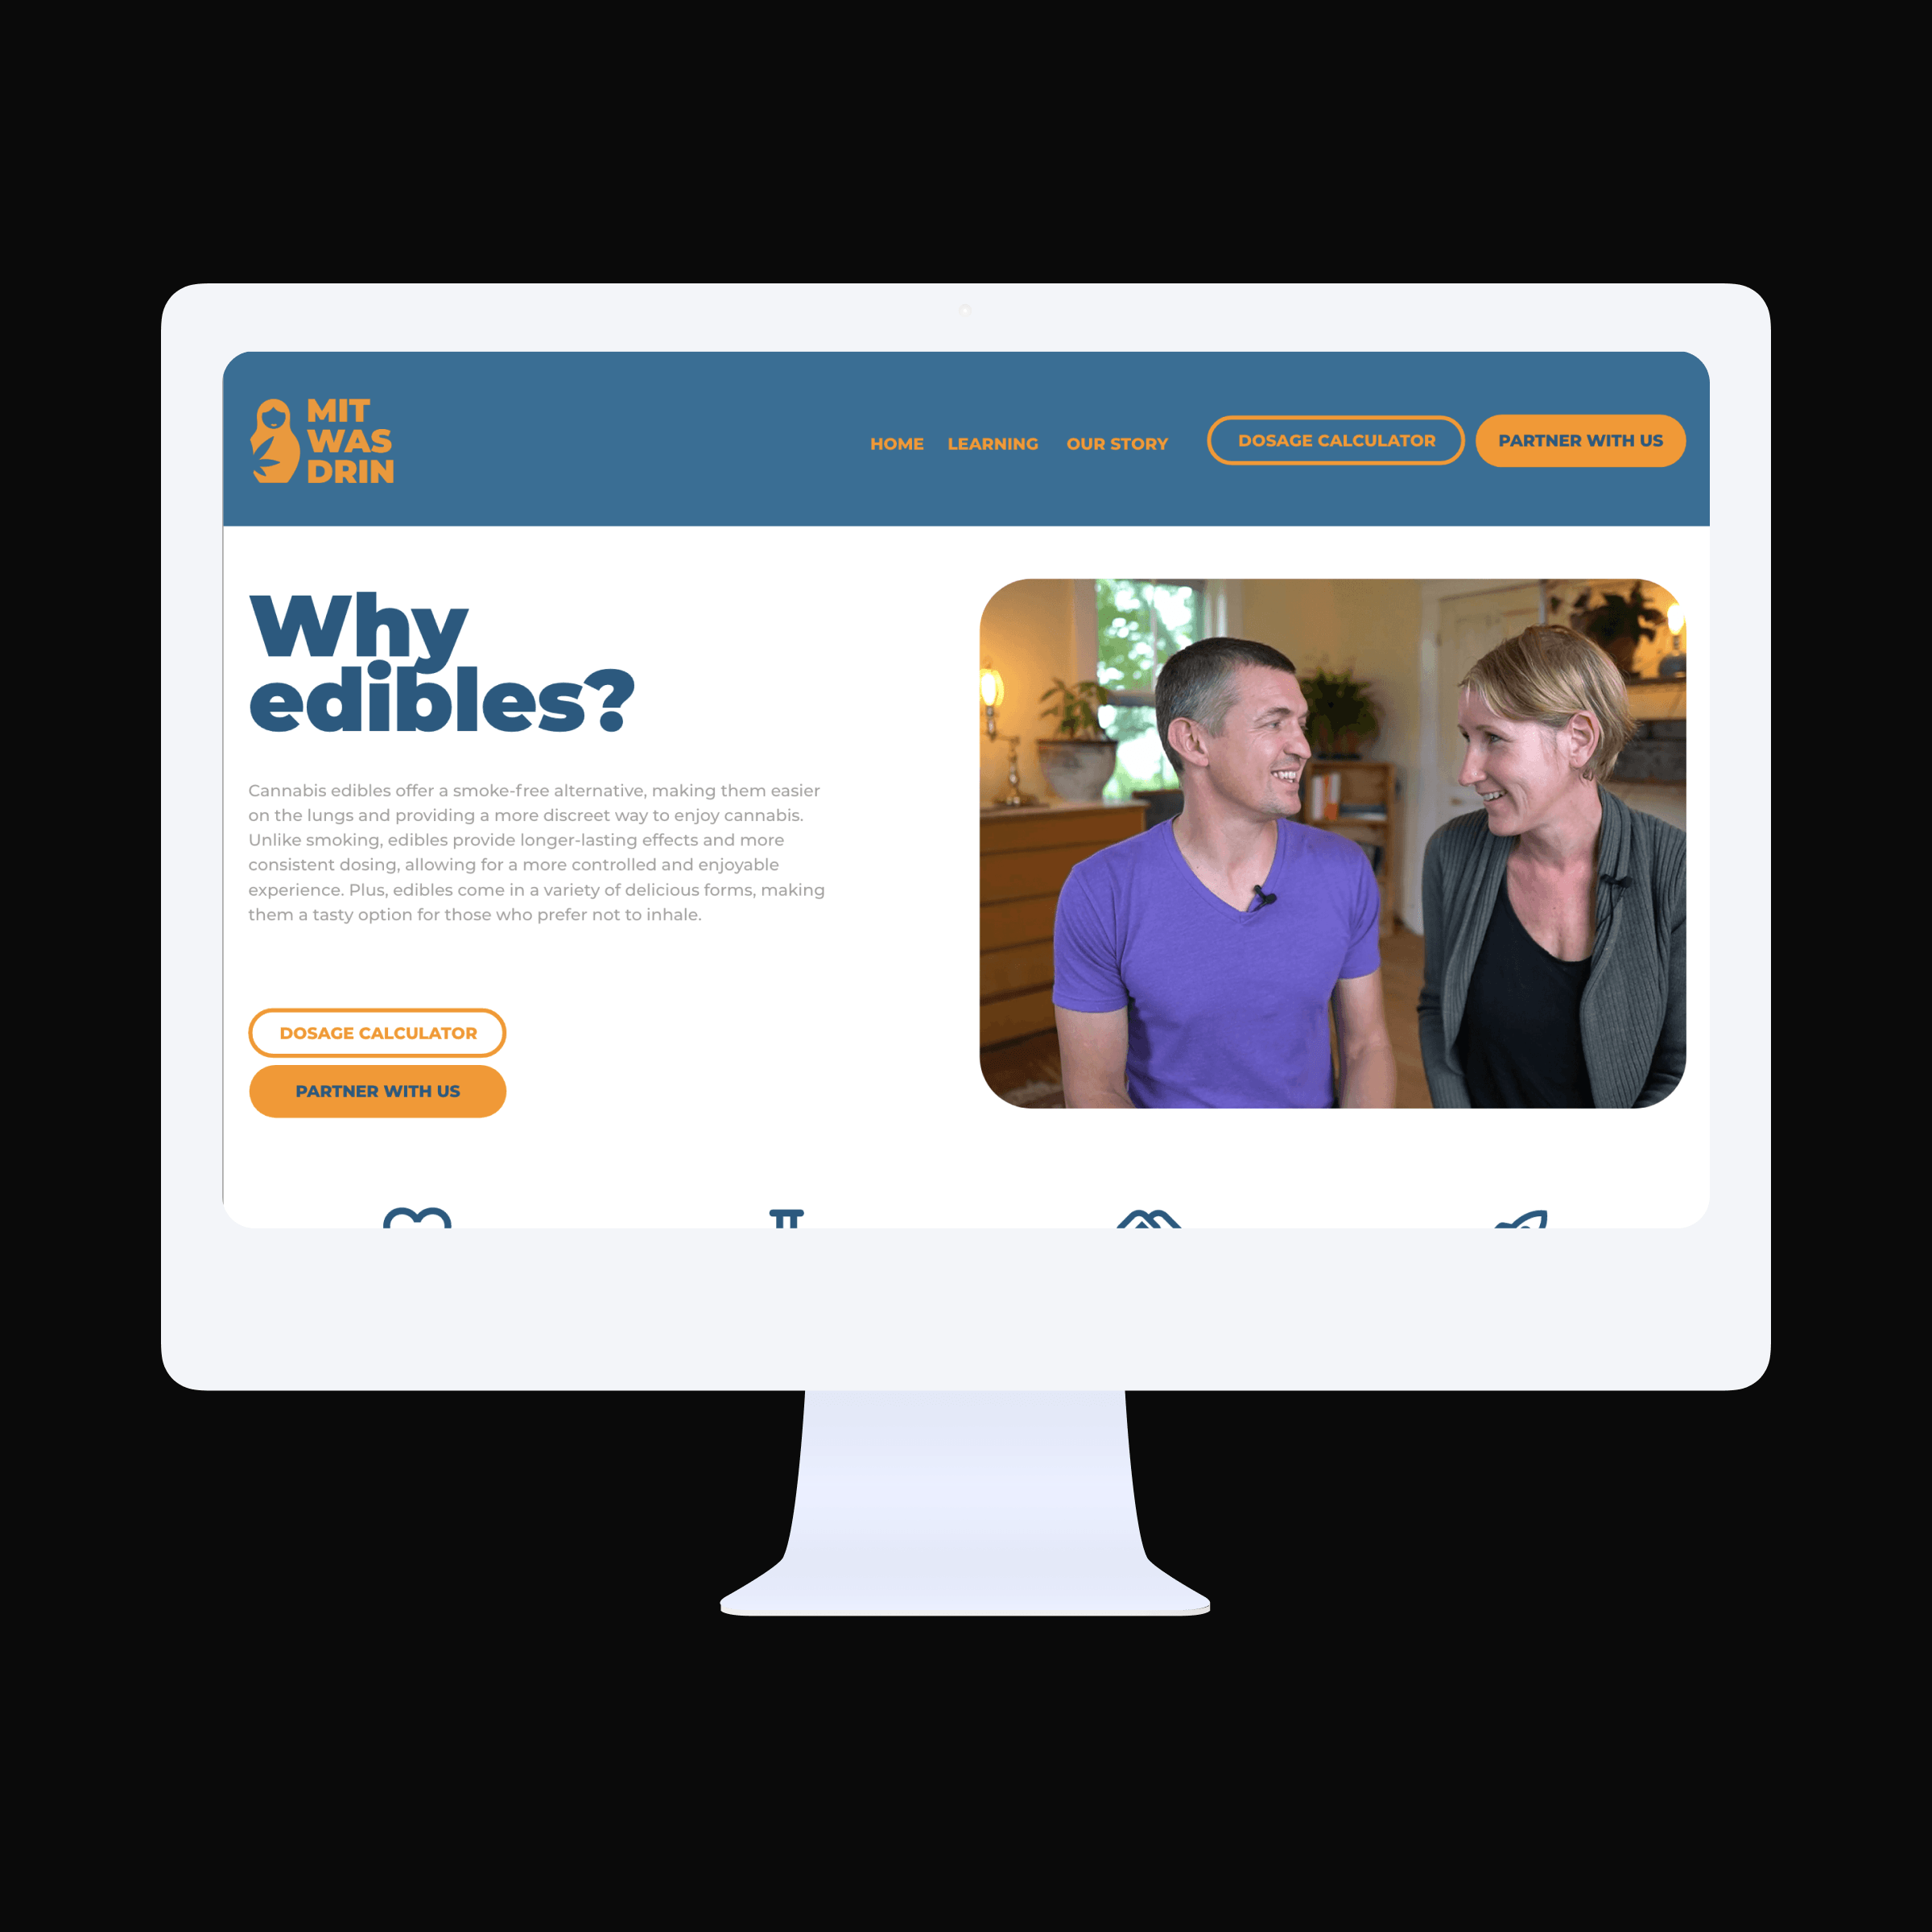
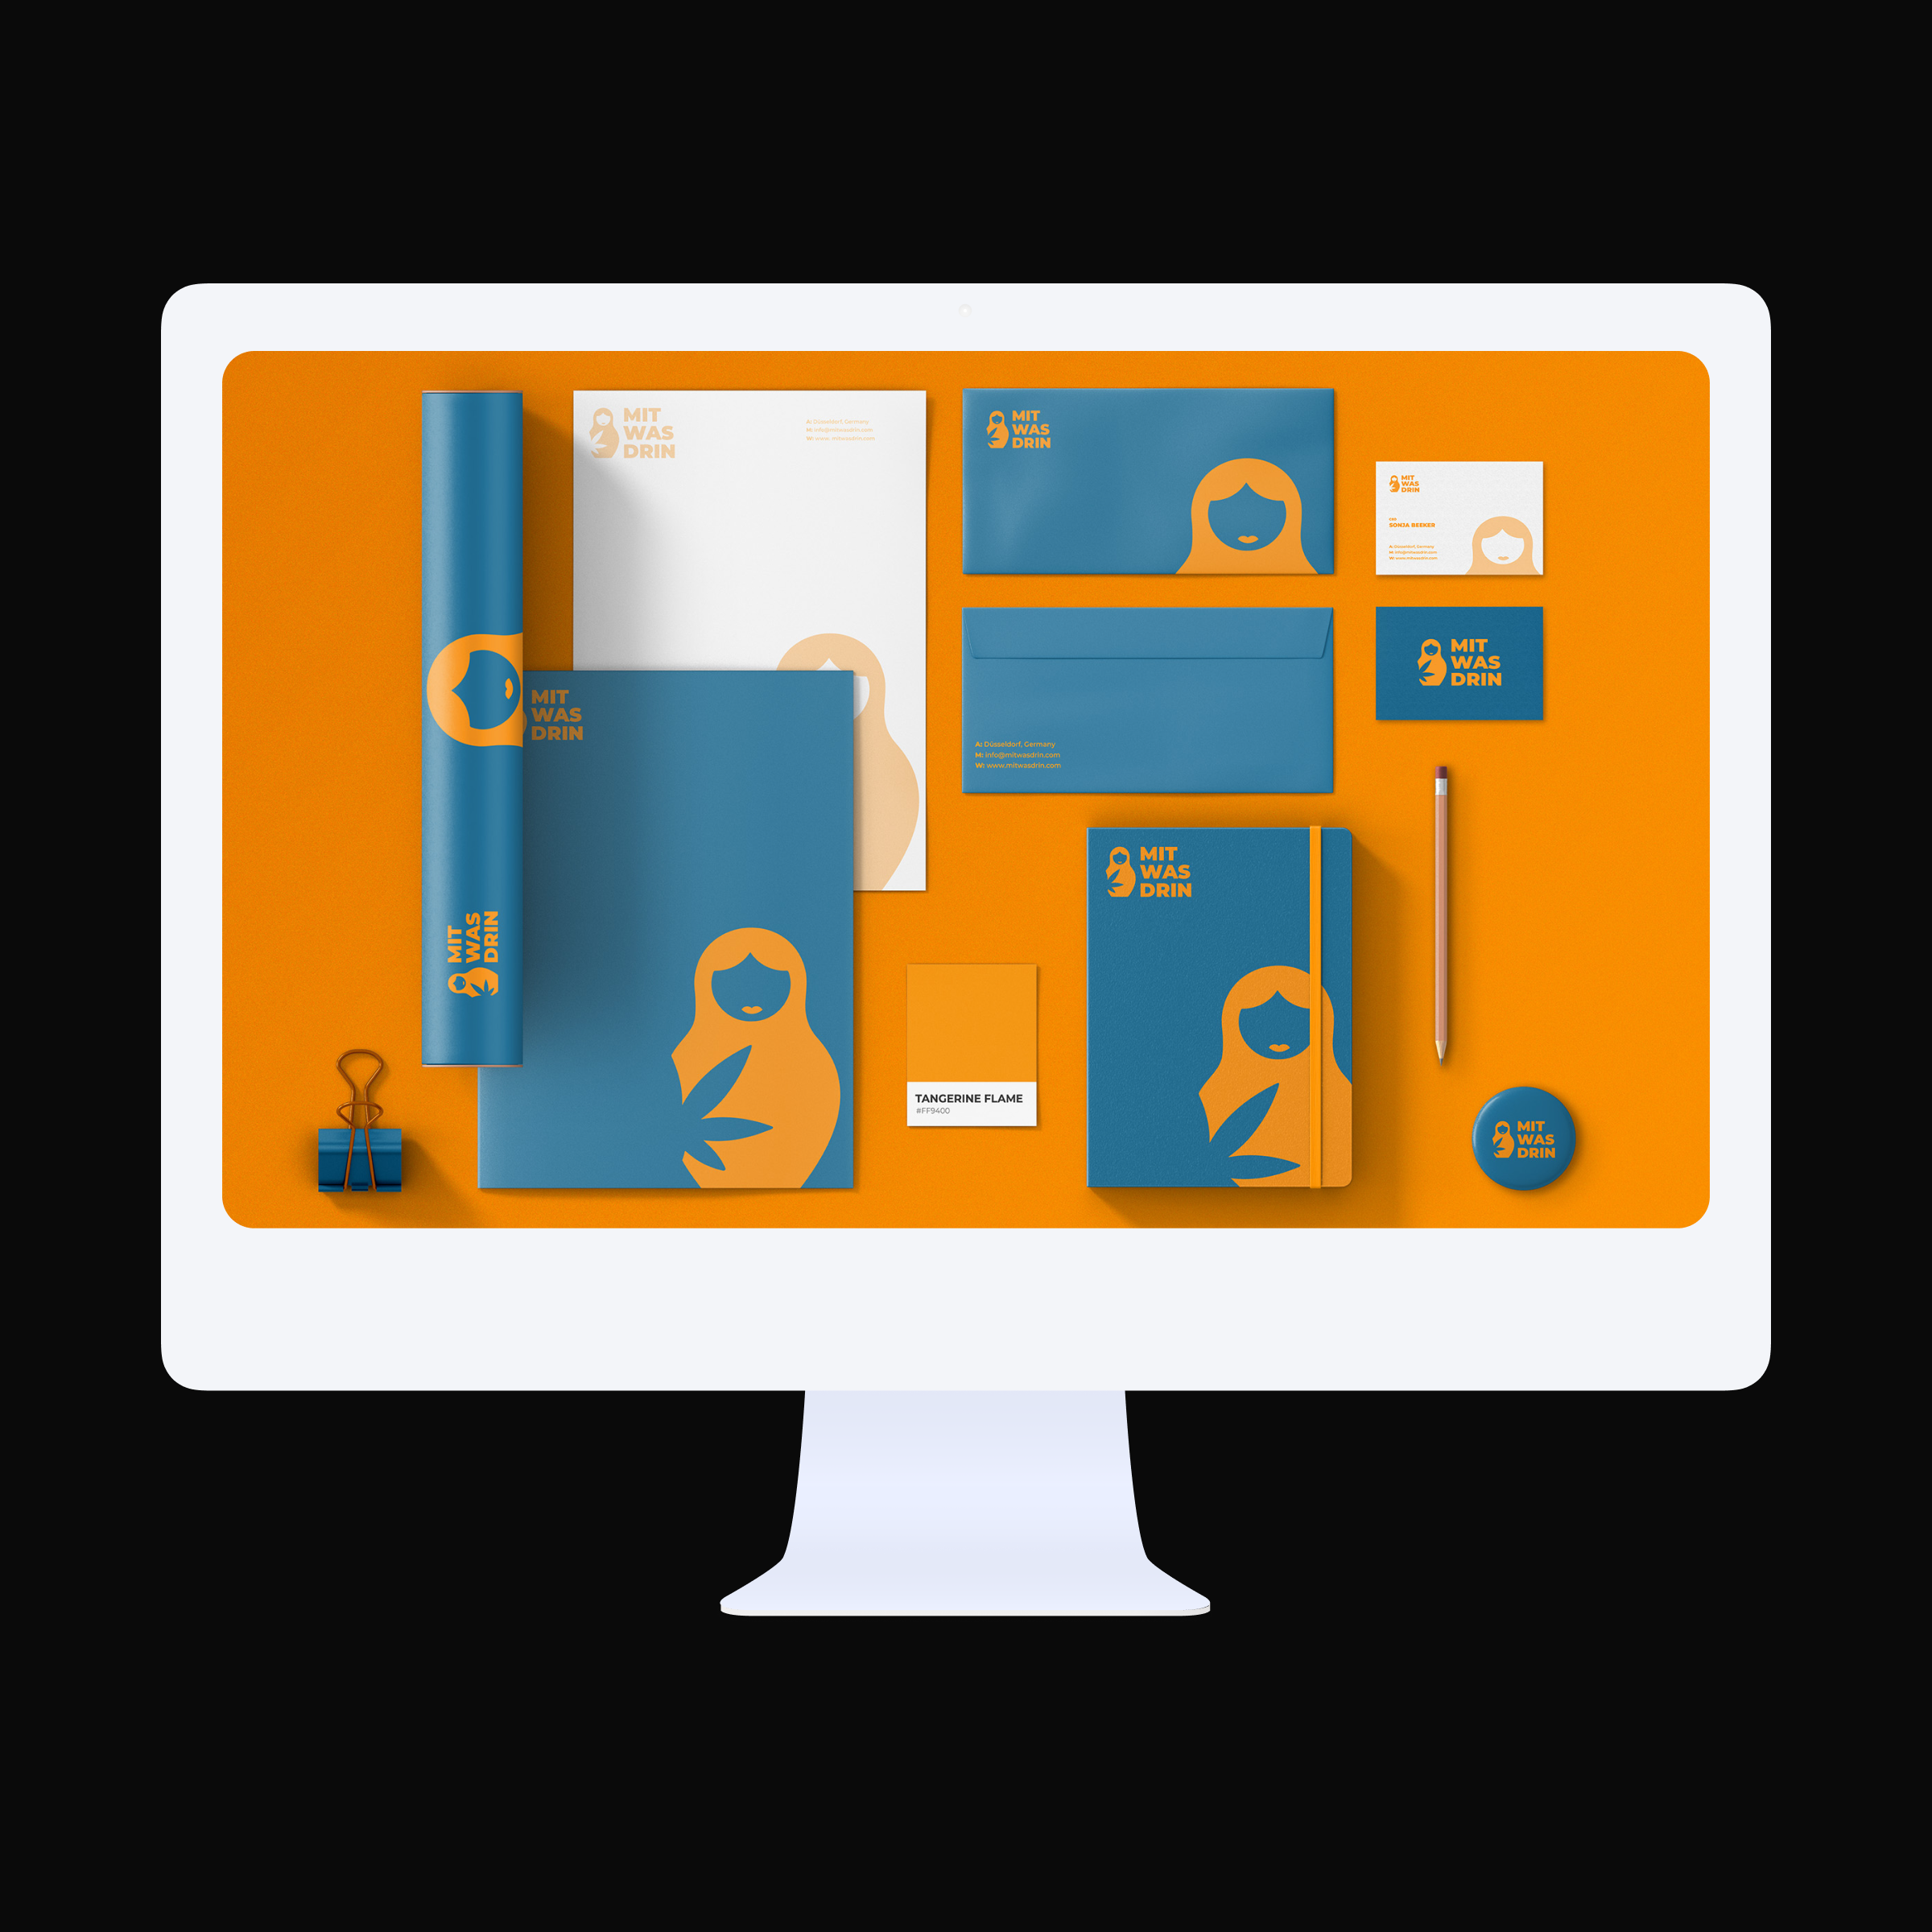
RMEONI-02/07/2025: Updating portfolio.

diff --git a/detail_project_gflow_rebrand.html b/detail_project_gflow_rebrand.html
@@ -152,7 +152,7 @@
             class="overlay"></div><img
             style="-webkit-transform:translate3d(0, 0, 0) scale3d(1.26, 1.26, 1) rotateX(0) rotateY(0) rotateZ(0) skew(0, 0);-moz-transform:translate3d(0, 0, 0) scale3d(1.26, 1.26, 1) rotateX(0) rotateY(0) rotateZ(0) skew(0, 0);-ms-transform:translate3d(0, 0, 0) scale3d(1.26, 1.26, 1) rotateX(0) rotateY(0) rotateZ(0) skew(0, 0);transform:translate3d(0, 0, 0) scale3d(1.26, 1.26, 1) rotateX(0) rotateY(0) rotateZ(0) skew(0, 0)"
             src="./images/project-cover-gflow-rebrand.png" alt="Image of GFlow Rebrand" class="bg-image"
-            id="project-cover">
+            id="project-cover" data-light-src="./images/project-cover-gflow-rebrand.png" data-dark-src="./images/project-cover-gflow-rebrand-dark.png">
           <!--<a data-w-id="648427ad-7c5f-693c-a567-fe8be4140a79" style="opacity:0" href="https://www.uxrodrigo.com/detail_project_gummies_mockup.html" class="work-link-button w-inline-block"></a>-->
         </div>
         <div class="work-intro">
@@ -341,6 +341,10 @@
         var langIcon = document.getElementById('lang-toggle-icon');
         if (langIcon) {
           langIcon.src = isDark ? 'images/language-dark.svg' : 'images/language.svg';
+        }
+        var cover = document.getElementById('project-cover');
+        if (cover) {
+          cover.src = isDark ? cover.getAttribute('data-dark-src') : cover.getAttribute('data-light-src');
         }
       }
 

diff --git a/detail_project_mwd_branding.html b/detail_project_mwd_branding.html
@@ -151,7 +151,7 @@
             style="display:block;-webkit-transform:translate3d(0, 0, 0) scale3d(2, 2, 1) rotateX(0) rotateY(0) rotateZ(45DEG) skew(0, 0);-moz-transform:translate3d(0, 0, 0) scale3d(2, 2, 1) rotateX(0) rotateY(0) rotateZ(45DEG) skew(0, 0);-ms-transform:translate3d(0, 0, 0) scale3d(2, 2, 1) rotateX(0) rotateY(0) rotateZ(45DEG) skew(0, 0);transform:translate3d(0, 0, 0) scale3d(2, 2, 1) rotateX(0) rotateY(0) rotateZ(45DEG) skew(0, 0)"
             class="overlay"></div><img
             style="-webkit-transform:translate3d(0, 0, 0) scale3d(1.26, 1.26, 1) rotateX(0) rotateY(0) rotateZ(0) skew(0, 0);-moz-transform:translate3d(0, 0, 0) scale3d(1.26, 1.26, 1) rotateX(0) rotateY(0) rotateZ(0) skew(0, 0);-ms-transform:translate3d(0, 0, 0) scale3d(1.26, 1.26, 1) rotateX(0) rotateY(0) rotateZ(0) skew(0, 0);transform:translate3d(0, 0, 0) scale3d(1.26, 1.26, 1) rotateX(0) rotateY(0) rotateZ(0) skew(0, 0)"
-            src="./images/project-cover-mwd-brand.png" alt="" class="bg-image" id="project-cover">
+            src="./images/project-cover-mwd-brand.png" alt="" class="bg-image" id="project-cover" data-light-src="./images/project-cover-mwd-brand.png" data-dark-src="./images/project-cover-mwd-brand-dark.png">
           <!-- <a data-w-id="648427ad-7c5f-693c-a567-fe8be4140a79" style="opacity:0" href="https://www.uxrodrigo.com/detail_project_mwd_branding.html" class="work-link-button w-inline-block"></a> -->
         </div>
         <div class="work-intro">
@@ -278,6 +278,10 @@
         var langIcon = document.getElementById('lang-toggle-icon');
         if (langIcon) {
           langIcon.src = isDark ? 'images/language-dark.svg' : 'images/language.svg';
+        }
+        var cover = document.getElementById('project-cover');
+        if (cover) {
+          cover.src = isDark ? cover.getAttribute('data-dark-src') : cover.getAttribute('data-light-src');
         }
       }
 

diff --git a/detail_project_whg_rebrand.html b/detail_project_whg_rebrand.html
@@ -152,7 +152,7 @@
             class="overlay"></div><img
             style="-webkit-transform:translate3d(0, 0, 0) scale3d(1.26, 1.26, 1) rotateX(0) rotateY(0) rotateZ(0) skew(0, 0);-moz-transform:translate3d(0, 0, 0) scale3d(1.26, 1.26, 1) rotateX(0) rotateY(0) rotateZ(0) skew(0, 0);-ms-transform:translate3d(0, 0, 0) scale3d(1.26, 1.26, 1) rotateX(0) rotateY(0) rotateZ(0) skew(0, 0);transform:translate3d(0, 0, 0) scale3d(1.26, 1.26, 1) rotateX(0) rotateY(0) rotateZ(0) skew(0, 0)"
             src="./images/project-cover-whg-rebrand.png" alt="Image of Wind Hill Growers Rebrand" class="bg-image"
-            id="project-cover">
+            id="project-cover" data-light-src="./images/project-cover-whg-rebrand.png" data-dark-src="./images/project-cover-whg-rebrand-dark.png">
           <!--<a data-w-id="648427ad-7c5f-693c-a567-fe8be4140a79" style="opacity:0" href="https://www.uxrodrigo.com/detail_project_gummies_mockup.html" class="work-link-button w-inline-block"></a>-->
         </div>
         <div class="work-intro">
@@ -297,6 +297,10 @@
         var langIcon = document.getElementById('lang-toggle-icon');
         if (langIcon) {
           langIcon.src = isDark ? 'images/language-dark.svg' : 'images/language.svg';
+        }
+        var cover = document.getElementById('project-cover');
+        if (cover) {
+          cover.src = isDark ? cover.getAttribute('data-dark-src') : cover.getAttribute('data-light-src');
         }
       }
 

diff --git a/js/projects.js b/js/projects.js
@@ -180,6 +180,7 @@ const projects = {
         description_es: 'Una empresa fintech sin fines de lucro en Guatemala con más de 4,000 empleados necesitaba apoyo para rediseñar la marca de una de sus apps internas de gestión de préstamos. La app había acumulado numerosos problemas de usabilidad, y dado que ya trabajábamos en un rediseño UX, aprovechamos la oportunidad para darle un aspecto fresco y moderno.',
         link: './detail_project_gflow_rebrand.html',
         image: './images/portfolio-thumb-28.png',
+        image_dark: './images/portfolio-thumb-28-dark.png',
         buttonText: 'View Project',
         buttonText_es: 'Ver Proyecto',
         target: "_self"
@@ -192,6 +193,7 @@ const projects = {
         description_es: 'El detallado logo de Wind Hill Growers se veía borroso en pantallas pequeñas, haciendo que la marca fuera menos reconocible. La solución fue crear una versión simplificada para pantallas pequeñas, conservando el original para pantallas grandes e impresión, garantizando tanto la funcionalidad como la coherencia de la marca.',
         link: './detail_project_whg_rebrand.html',
         image: './images/portfolio-thumb-19.png',
+        image_dark: './images/portfolio-thumb-19-dark.png',
         buttonText: 'View Project',
         buttonText_es: 'Ver Proyecto',
         target: "_self"